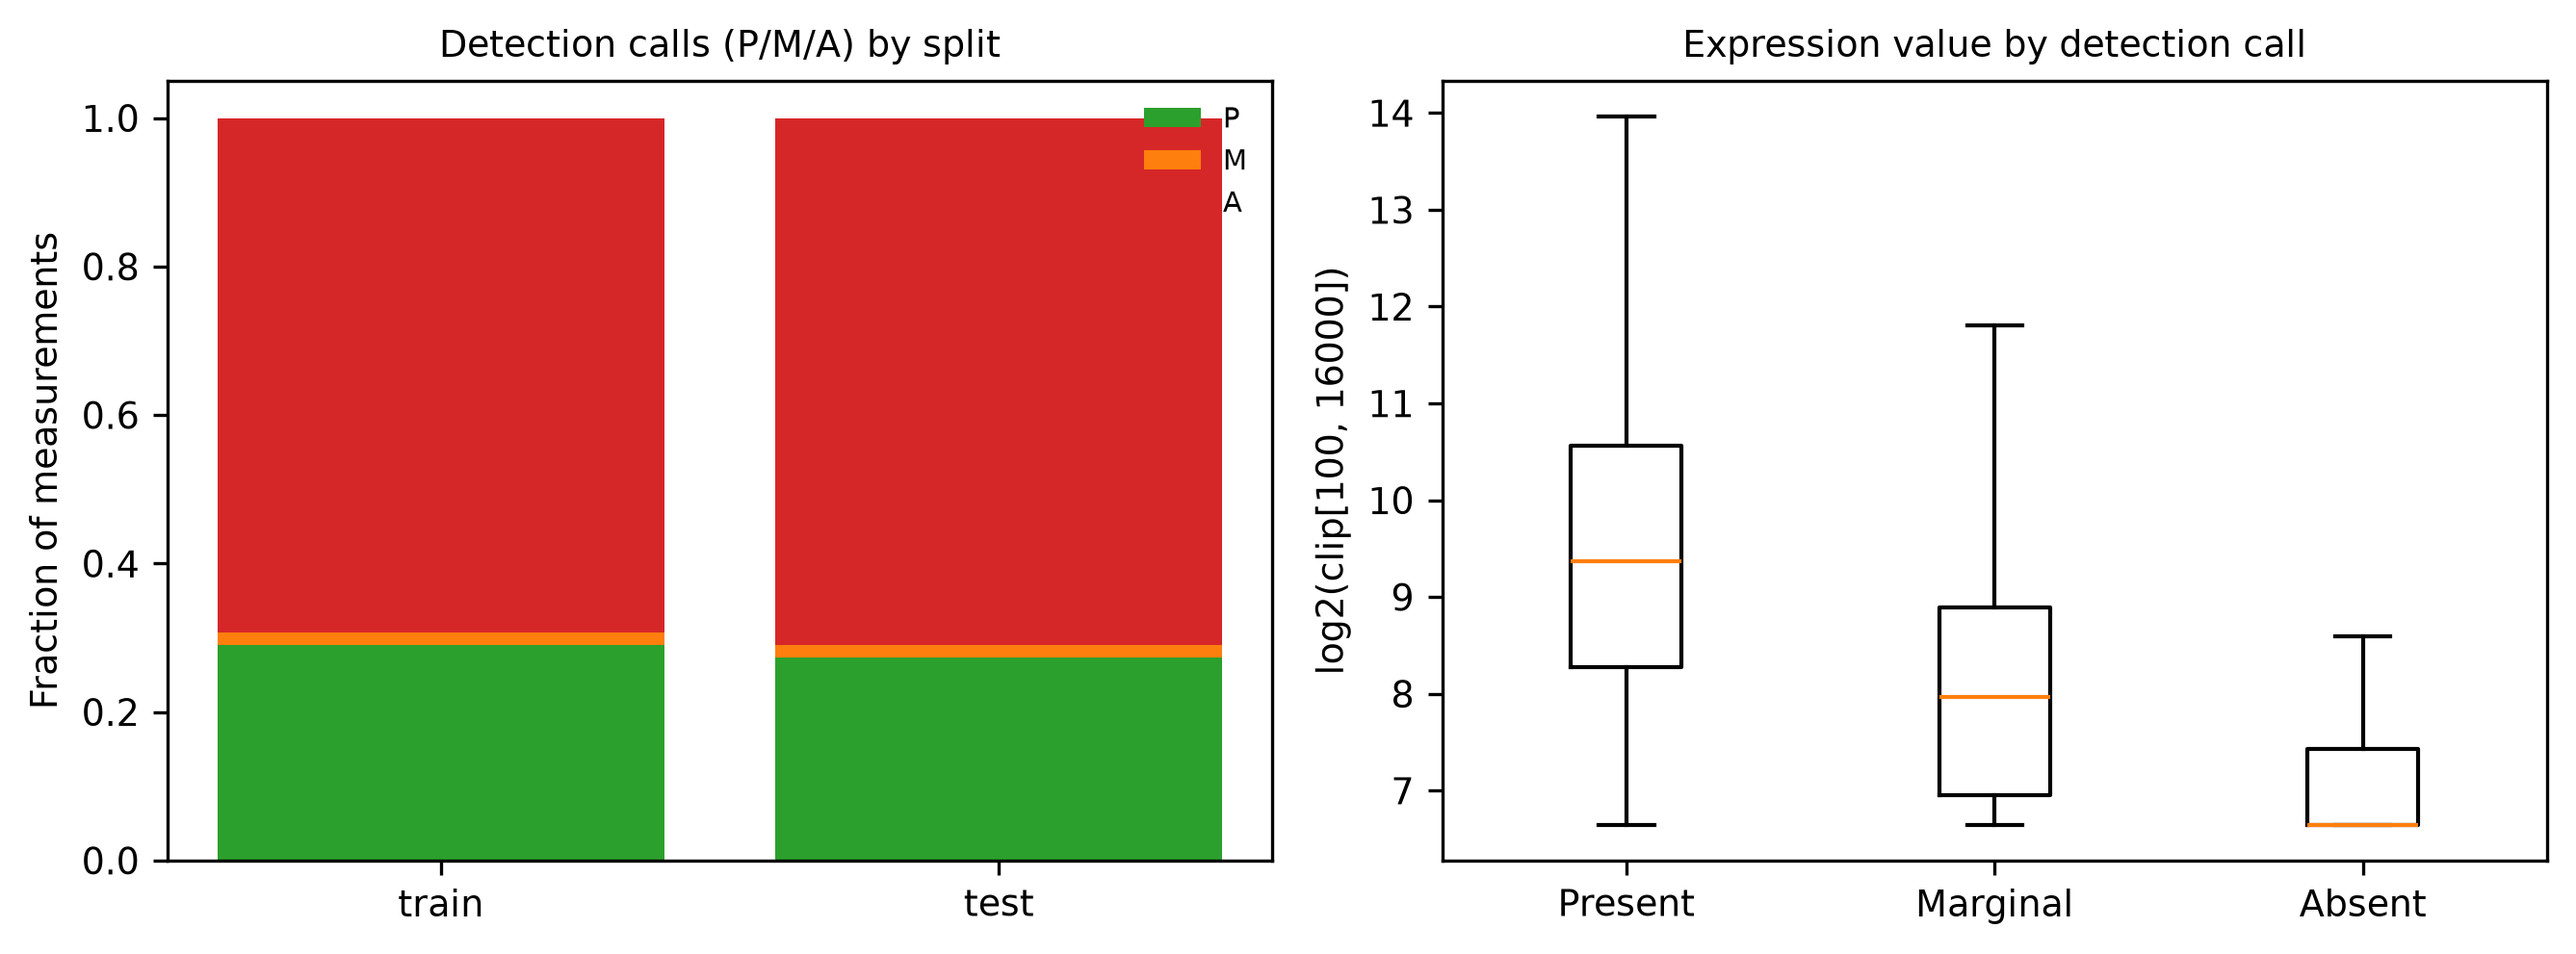
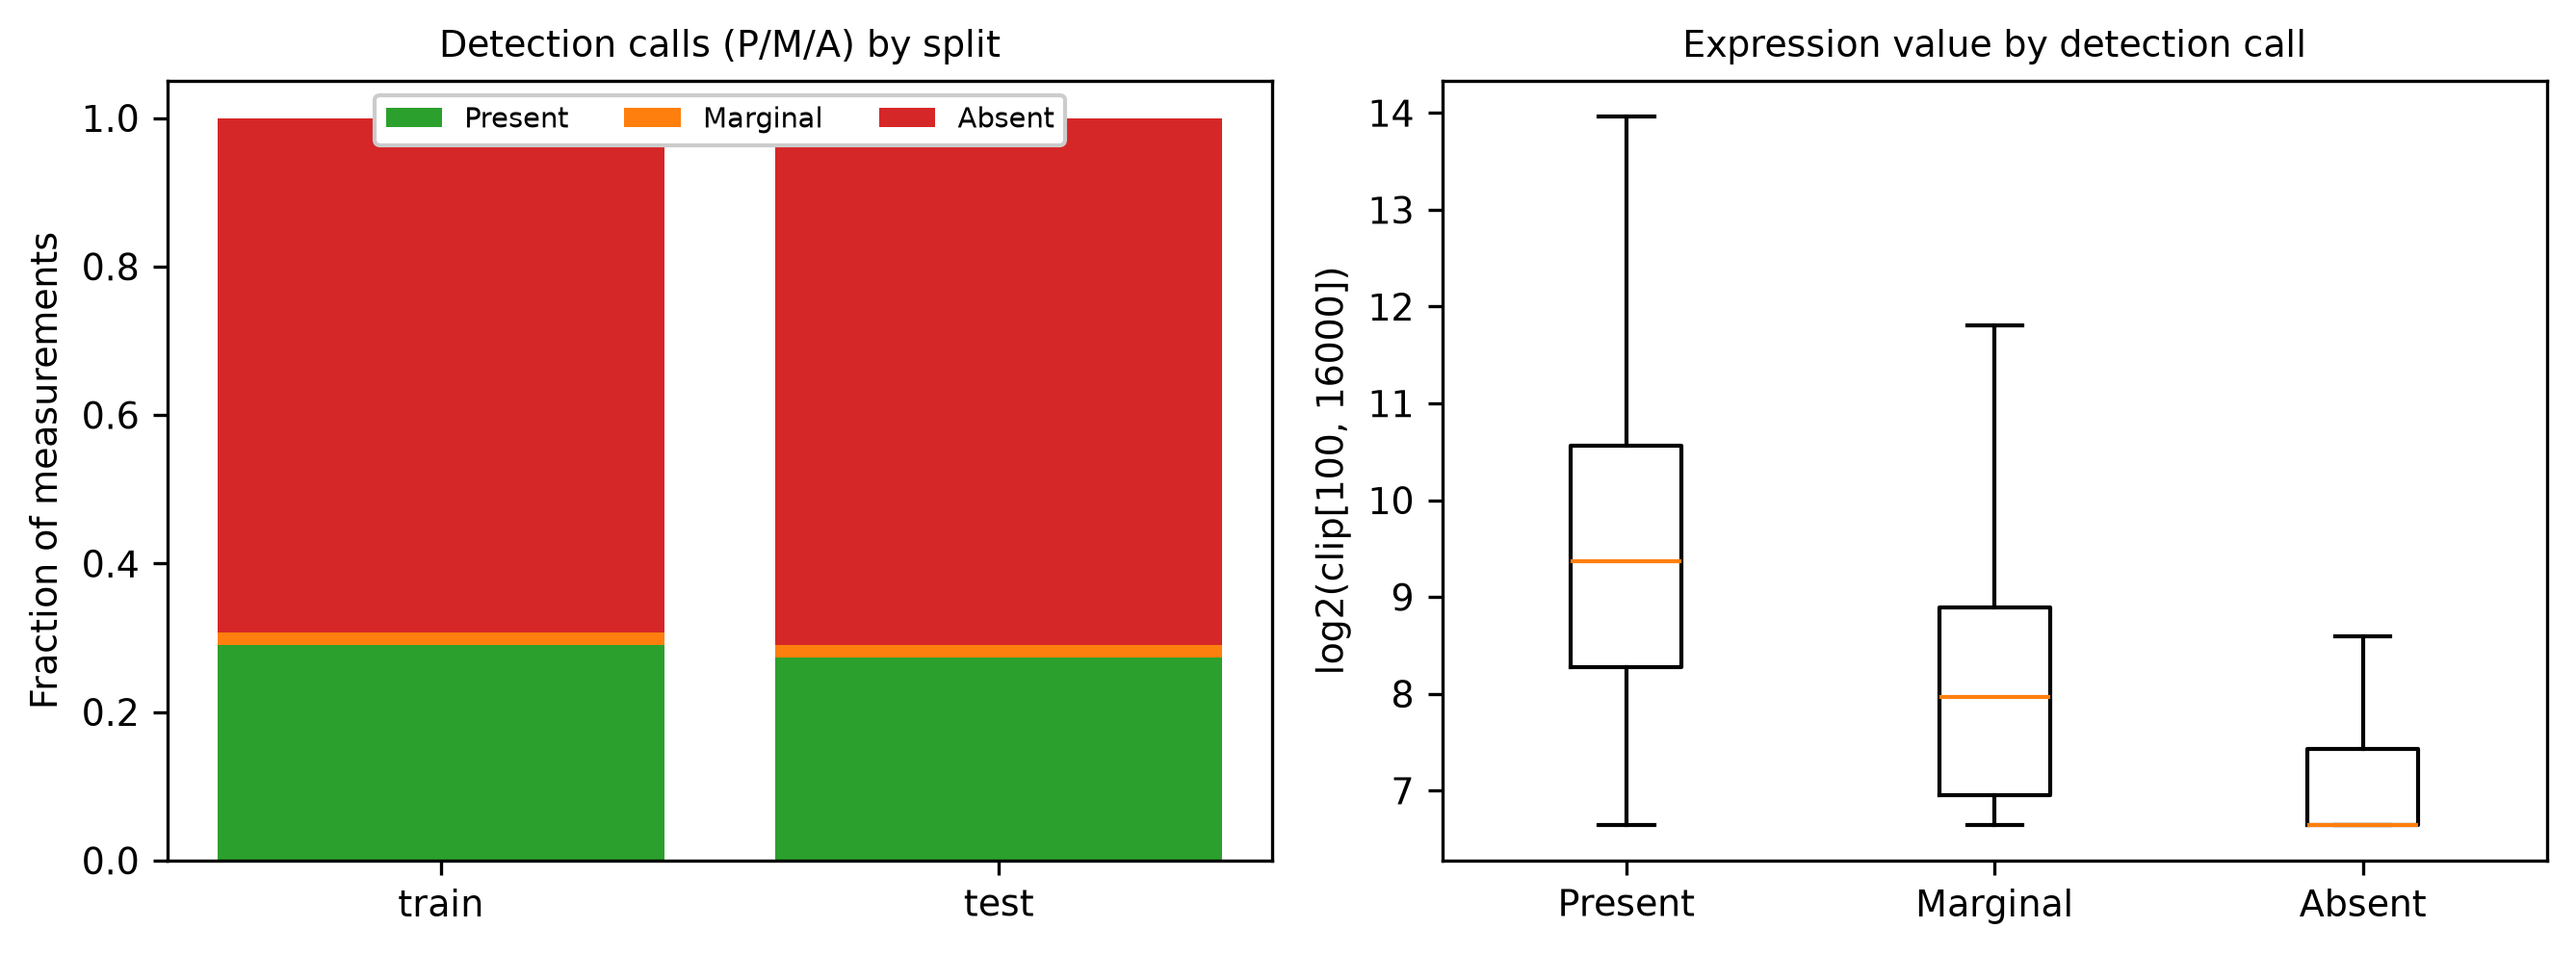
Fix legend in detection-call figure

Changed region(s): [[0.1241, 0.0908, 0.4964, 0.1816]]

diff --git a/scripts/13_missing_and_clustering.py b/scripts/13_missing_and_clustering.py
@@ -79,11 +79,11 @@ pv, pc = np.concatenate(pooled_v), np.concatenate(pooled_c)
 fig, ax = plt.subplots(1, 2, figsize=(9, 3.4))
 bottoms = np.zeros(len(summ))
 for cat, col in [("P_ratio", "tab:green"), ("M_ratio", "tab:orange"), ("A_ratio", "tab:red")]:
-    ax[0].bar(summ["split"], summ[cat], bottom=bottoms, color=col, label=cat[0])
+    ax[0].bar(summ["split"], summ[cat], bottom=bottoms, color=col, label={"P": "Present", "M": "Marginal", "A": "Absent"}[cat[0]])
     bottoms += summ[cat].to_numpy()
 ax[0].set_ylabel("Fraction of measurements")
 ax[0].set_title("Detection calls (P/M/A) by split", fontsize=9)
-ax[0].legend(fontsize=7, frameon=False)
+ax[0].legend(fontsize=7, loc="upper center", ncol=3, frameon=True, facecolor="white", framealpha=1)
 L = np.log2(np.clip(pv, eda.FLOOR, eda.CEIL))
 ax[1].boxplot([L[pc == c] for c in ["P", "M", "A"]], showfliers=False)
 ax[1].set_xticklabels(["Present", "Marginal", "Absent"])
